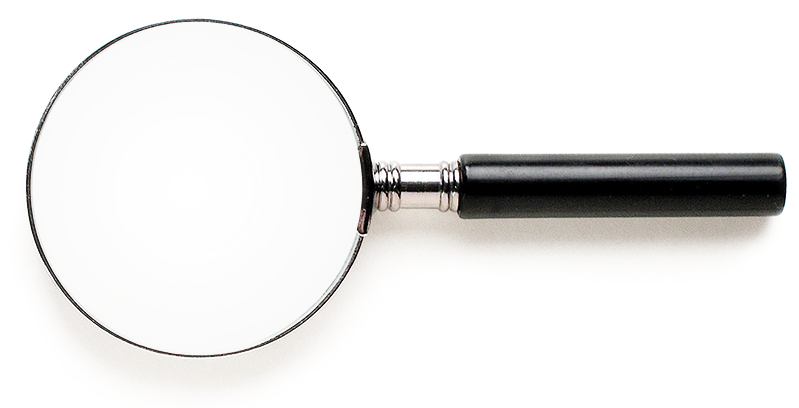
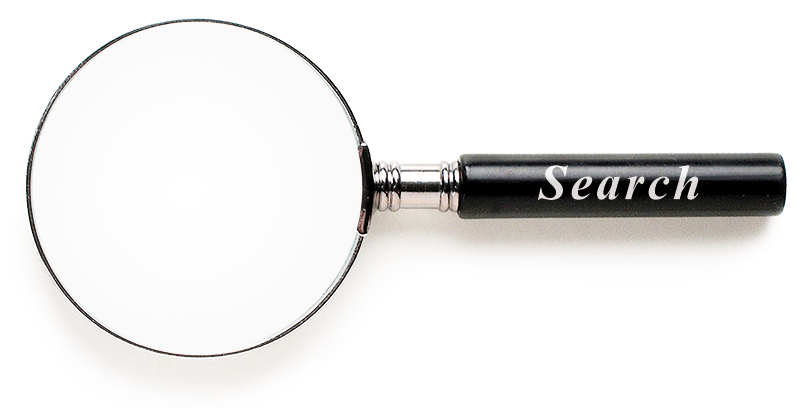
虫眼鏡とレンズが連動するようになった
ただしまだ不具合残ってる

Changed region(s): [[0.6608, 0.3824, 0.8711, 0.5]]

diff --git a/src/main/resources/static/css/_main.css b/src/main/resources/static/css/_main.css
@@ -331,21 +331,21 @@ body {
                 */
             
             .magnifying_glass {
-                width: 100px;
-                height: 100px;
+                width: 120px;
+                height: 120px;
                 position: absolute;
                 top: 0px;
                 left: 0px;
                 overflow: hidden;
                 
-                border-radius: 42px; /* Half glass max width height */
-                -moz-border-radius: 42px; /* Half glass max width height */
-                -webkit-border-radius: 42px;
+                border-radius: 60px; /* Half glass max width height */
+                -moz-border-radius: 60px; /* Half glass max width height */
+                -webkit-border-radius: 60px;
                 
                 /*border: 1px solid red;*/
                 background-color: white;
                 
-                z-index: 1000000000;
+                z-index: 100;
             }
             
             .magnifying_glass .magnified_content {
@@ -383,7 +383,7 @@ body {
                 left: 0px;
                 width: 100%;
                 height: 100%;
-                z-index: 10000000;
+                z-index: 100;
                 opacity: 0.0;
                 -ms-filter: alpha(opacity=0);
 
@@ -395,8 +395,11 @@ img{float:left;margin-right:25px;}
 #loupe
 {
 	position: absolute;
+	top:200;
+	left:500;
 	background: url("../img/loupe.png");
 	background-size:300px 150px;
 	height:150px;
 	width:300px;
+	z-index: 100;
 }

diff --git a/src/main/resources/templates/main.html b/src/main/resources/templates/main.html
@@ -133,43 +133,6 @@ function dialog()
     $( "#loupe" ).draggable();
    
     
-    
-/*
-$('.husen')
-        .bind('drag',function( event ){
-		var offset = $(this).offset();
-        var zoomPointX = offset.left;
-        var zoomPointY = offset.top;
-        var offsetX = -(zoomPointX * -0.5);
-		var offsetY = -(zoomPointY * -0.5);
-		alert(offsetX);
-		alert(offsetY);
-        var clone = $("#clone").clone();
-        //alert(clone.html());
-        $("#canvas").html(clone);
-        $("#canvas").css("position","absolute");
-        $("#canvas").css("top",zoomPointY.toString());
-        $("#canvas").css("left",zoomPointX.toString());
-        // $("#canvas").css("top","-200");
-        // $("#canvas").css("left","-100");
-        //$("#canvas").css("clip","circle(60px at center)");
-        // $("#canvas").css("width","50px");
-        // $("#canvas").css("height","50px");
-        // $("#canvas").css("overflow","hidden");
-        //$("#canvas").css("zoom","150%");
-        
-        // $("#canvas").css("","");
-		});*/
-
-
-
-
-
-
-
-
-
-
 }
 </script>
 </head>
@@ -180,6 +143,12 @@ $('.husen')
 <!--
 <div id="dialog" class=".ui-draggable .ui-dialog-titlebar" title="Basic dialog" style="display:none;">
 -->
+
+<div id="loupe">
+</div>
+
+
+
 <div id="crystal_board">
 <div class="husen">
 英単語</div>
@@ -187,8 +156,6 @@ $('.husen')
 大学受験</div>
 <!-- <div id="loope">
 ルーペ</div> -->
-<div id="loupe">
-</div>
 </div>
 
 

diff --git a/src/main/resources/static/js/_main.js b/src/main/resources/static/js/_main.js
@@ -297,6 +297,8 @@ $("#loope").draggable({
 
 $(function() {
 	
+	
+	
 	var scale = 1.2;
 	
 	var $magnifyingGlass = $('<div class="magnifying_glass"></div>');
@@ -363,9 +365,16 @@ $(function() {
 	            left: -left * scale,
 	            top: -top * scale
 	        });
-	
+	        
+	        var loupe = jQuery('#loupe');
+	    	//var offset = $(".magnifying_glass").offset();
+
+	        loupe.css({
+	            left: left-15,
+	            top: top-10,
+	        });	
 	    }
 	}).mouseup(function() {
 	    $magnifyingGlass.removeData("drag");
-	});
+	});	
 });
